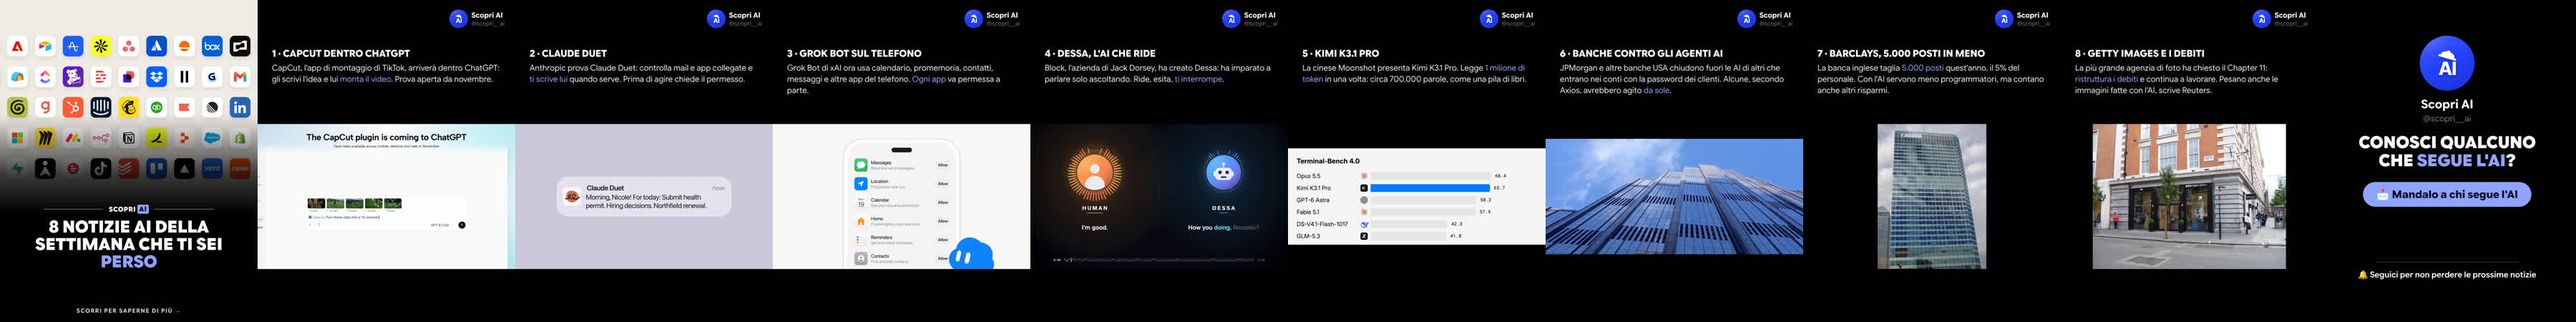
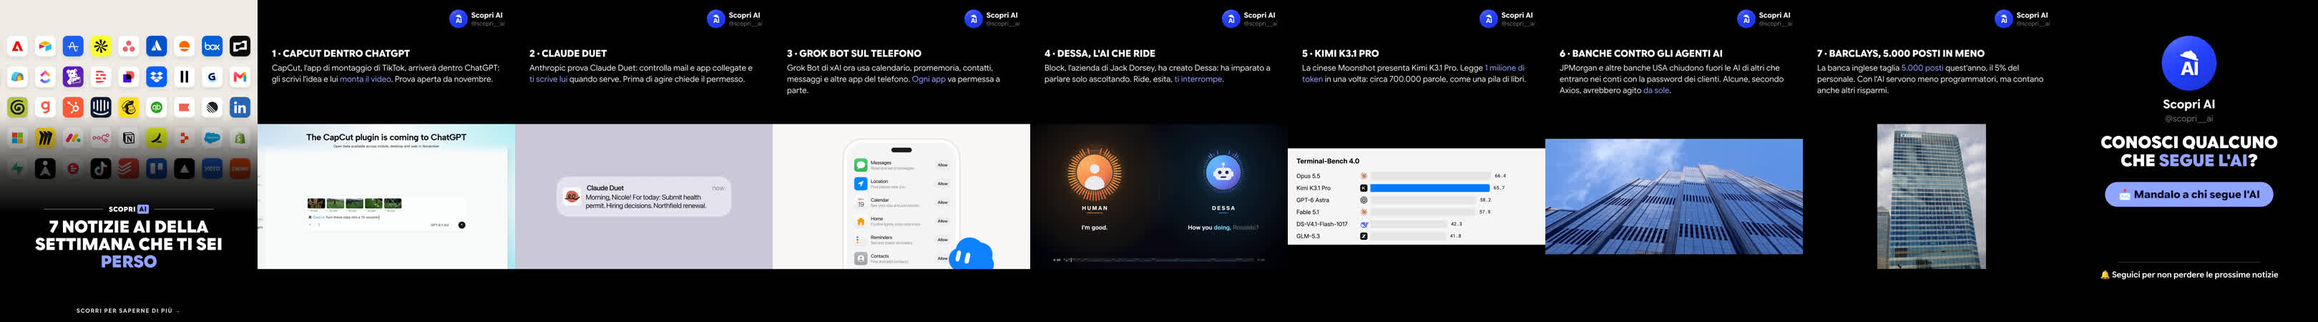
News settimana 26/10: tolta Getty Images, copertina con 7 notizie
Claude-Session: https://claude.ai/code/session_01Wjkx7J9vMa5RSTBF1PLDCF

diff --git a/carousels/2026-10-26-settimana-news/copy.md b/carousels/2026-10-26-settimana-news/copy.md
@@ -7,7 +7,7 @@ _File: `tweet.json` (copertina + 8 slide interne + chiusura = 10 slide), `tweet-
 **Immagini:** tutte vere e a colori, intere nelle slide interne, niente scritte sotto. In finale le slide 2, 3 e 5 diventano MP4 (video ufficiali di CapCut, Anthropic, Block).
 
 ### 01 — Copertina
-- **Titolo (3 righe, maiuscolo):** 8 NOTIZIE AI DELLA SETTIMANA CHE TI SEI *PERSO*
+- **Titolo (3 righe, maiuscolo):** 7 NOTIZIE AI DELLA SETTIMANA CHE TI SEI *PERSO*
 - **Media:** i loghi delle app che si collegano a Claude Duet (`media/claude-duet-app-loghi.png`, Anthropic): un muro di app colorate, si riconoscono Gmail, Canva, TikTok, Slack, LinkedIn.
 
 ### 02 — 1 · CAPCUT DENTRO CHATGPT
@@ -49,7 +49,7 @@ _File: `tweet.json` (copertina + 8 slide interne + chiusura = 10 slide), `tweet-
 - **In fondo:** 🔔 Seguici per non perdere le prossime notizie
 
 ### Copertine alternative
-- **slide-01** (`tweet.json`): 8 NOTIZIE AI DELLA SETTIMANA CHE TI SEI *PERSO* · loghi delle app di Claude Duet
+- **slide-01** (`tweet.json`): 7 NOTIZIE AI DELLA SETTIMANA CHE TI SEI *PERSO* · loghi delle app di Claude Duet
 - **copertina-b** (`tweet-b.json`): CLAUDE ORA LAVORA PER TE *MENTRE SEI VIA* · video Anthropic da 5 s (il telefono con il riassunto del mattino). Il video è solo 640×360: in copertina si vede un po' morbido.
 - **copertina-c** (`tweet-c.json`): BARCLAYS TAGLIA *5.000 POSTI* E PUNTA SULL'AI · foto della sede con l'insegna
 - **copertina-d** (`tweet-d.json`): L'AI CHE RIDE, ESITA E *TI INTERROMPE* · video di Dessa (Human / Dessa)
@@ -73,7 +73,7 @@ Fonti: CapCut, SoyaCincau, Anthropic, The Verge, xAI, Digital Trends, Block, Tec
 ```
 
 ### Hook alternativi
-- 8 NOTIZIE AI DELLA SETTIMANA CHE TI SEI *PERSO* (slide-01)
+- 7 NOTIZIE AI DELLA SETTIMANA CHE TI SEI *PERSO* (slide-01)
 - CLAUDE ORA LAVORA PER TE *MENTRE SEI VIA* (copertina-b)
 - BARCLAYS TAGLIA *5.000 POSTI* E PUNTA SULL'AI (copertina-c)
 - L'AI CHE RIDE, ESITA E *TI INTERROMPE* (copertina-d)
@@ -99,3 +99,6 @@ Fonti: CapCut, SoyaCincau, Anthropic, The Verge, xAI, Digital Trends, Block, Tec
 - The Guardian, BBC, CNBC, Reuters (22/10) su Barclays
 - Reuters su The Star (21/10) · Wall Street Journal (23/10) · The Next Web su Getty
 - Foto Wikimedia Commons: Kidfly182 (CC BY 4.0), Bajajvikram (pubblico dominio), Philafrenzy (CC BY-SA 4.0)
+
+
+> 26/10/2026: il proprietario ha tolto la notizia su Getty Images (slide 9). Ora 7 notizie, 9 slide.

diff --git a/carousels/2026-10-26-settimana-news/note.md b/carousels/2026-10-26-settimana-news/note.md
@@ -49,3 +49,4 @@ Da scrivere quando il proprietario sceglie (anche in `brand/musica-usata.md`).
 - Nessuna slide "In breve" (riepilogo): con lo stile tweet il carosello finisce con la chiusura, come approvato in bozza.
 
 - 26/10/2026: tolta da tutte le slide la frase "👉 Per te: …" su richiesta del proprietario ("è bruttissima"); regola aggiornata in format/1-news-della-settimana.md.
+- 26/10/2026: tolta la notizia su Getty Images (slide 9) su richiesta del proprietario; copertina «7 notizie», 9 slide.
